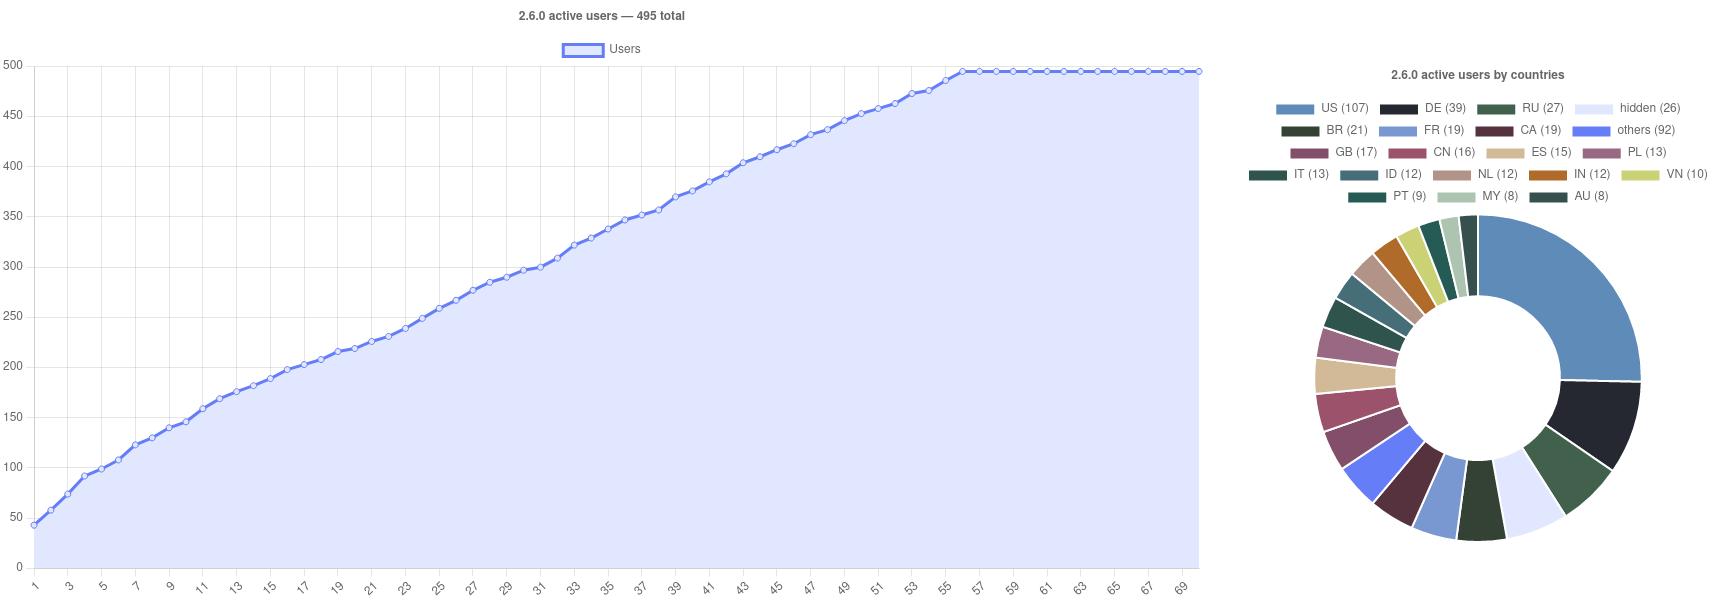
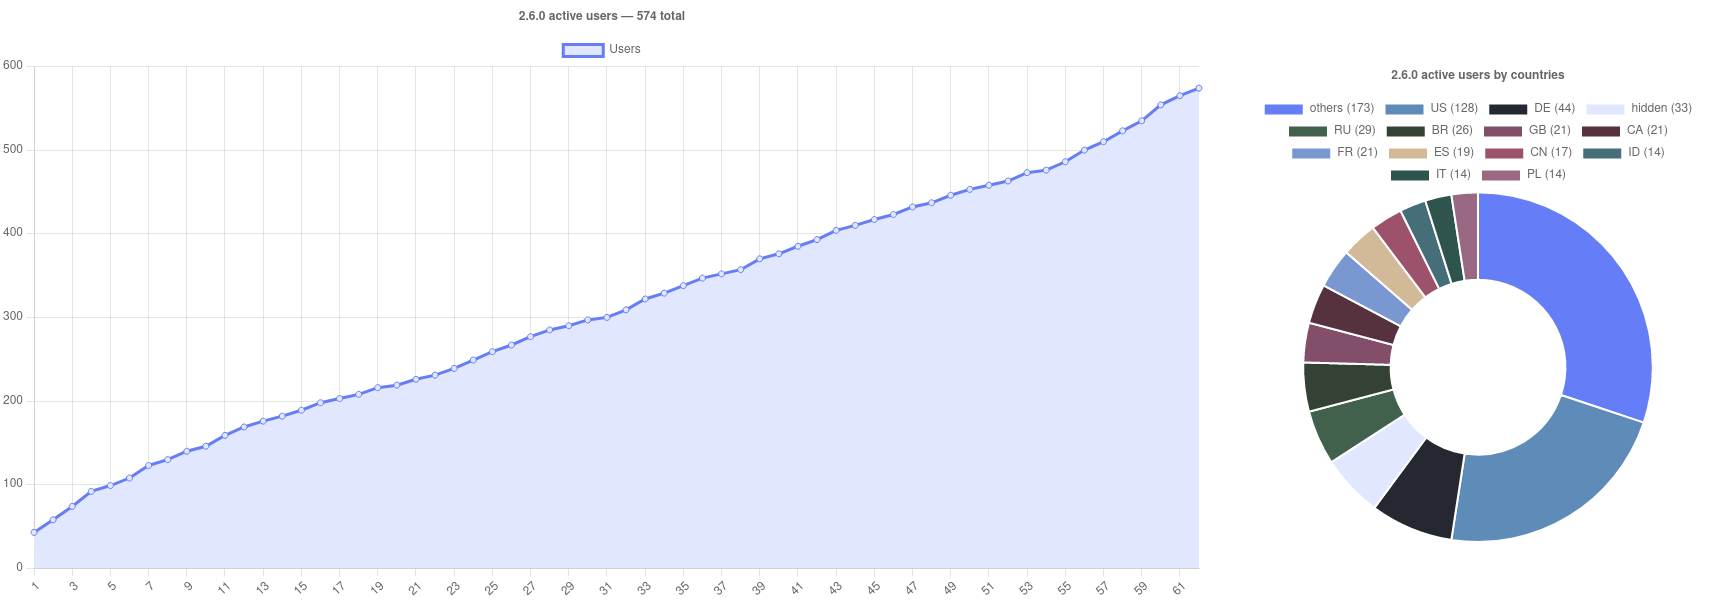
2.3.4 - added `Wine-GE-Proton 7-16`, made it default to install - hidden Wine-GE-Proton 7-8, 7-7, 7-6 and 7-2 as outdated - hidden GE-Proton 7-9, 7-8, 7-5 and 6-4 as outdated - hidden "apply patch" button from the settings if the patch currently is   in the preparation state - updated statistics
From previous commits:
- fixed voice packages versions identification

diff --git a/src/ts/launcher/states/InstallWine.ts b/src/ts/launcher/states/InstallWine.ts
@@ -5,9 +5,9 @@ import DXVK from '../../core/DXVK';
 
 export default (launcher: Launcher): Promise<void> => {
     return new Promise(async (resolve) => {
-        Runners.download('lutris-GE-Proton7-10-x86_64').then((stream) => {
+        Runners.download('lutris-GE-Proton7-16-x86_64').then((stream) => {
             launcher.progressBar?.init({
-                label: 'Downloading Wine-GE-Proton 7-10...',
+                label: 'Downloading Wine-GE-Proton 7-16...',
                 showSpeed: true,
                 showEta: true,
                 showPercents: true,
@@ -22,7 +22,7 @@ export default (launcher: Launcher): Promise<void> => {
 
             stream?.unpackStart(() => {
                 launcher.progressBar?.init({
-                    label: 'Unpacking Wine-GE-Proton 7-10...',
+                    label: 'Unpacking Wine-GE-Proton 7-16...',
                     showSpeed: true,
                     showEta: true,
                     showPercents: true,
@@ -36,7 +36,7 @@ export default (launcher: Launcher): Promise<void> => {
 
             stream?.unpackFinish(async () => {
                 // Select this runner
-                await Runners.current('lutris-GE-Proton7-10-x86_64');
+                await Runners.current('lutris-GE-Proton7-16-x86_64');
 
                 // Create prefix if it is not created
                 import('./CreatePrefix').then((module) => {

diff --git a/src/ts/core/Runners.ts b/src/ts/core/Runners.ts
@@ -11,6 +11,10 @@ import { DebugThread } from '@empathize/framework/dist/meta/Debug';
 import constants from '../Constants';
 import AbstractInstaller from './AbstractInstaller';
 
+// If true, runners list will be loaded directly from the file
+// instead of the repository. Should always be false for release builds
+const LOAD_DIRECTLY = false;
+
 declare const Neutralino;
 
 class Stream extends AbstractInstaller
@@ -72,7 +76,7 @@ class Runners
                 const runners_list = await Cache.get('Runners.list.remote');
 
                 // If the runners cache is no expired - return it
-                if (runners_list && !runners_list.expired)
+                if (!LOAD_DIRECTLY && runners_list && !runners_list.expired)
                     list = runners_list.value['list'];
 
                 else
@@ -81,7 +85,7 @@ class Runners
                     const response = await fetch(constants.uri.runners_list, 2000);
 
                     // If it wasn't fetched - load locally stored one
-                    if (!response.ok)
+                    if (!response.ok || LOAD_DIRECTLY)
                         list = YAML.parse(await Neutralino.filesystem.readFile(`${constants.paths.appDir}/public/runners.yaml`));
 
                     else

diff --git a/src/settings.svelte b/src/settings.svelte
@@ -372,7 +372,7 @@
                                         }
                                     }}
                                 />
-                            {:else}
+                            {:else if patchInfo.state != 'preparation'}
                                 <!-- svelte-ignore missing-declaration -->
                                 <Button
                                     lang="settings.general.items.patch.items.buttons.apply_patch"

diff --git a/repository/pages/STATISTICS.md b/repository/pages/STATISTICS.md
@@ -6,31 +6,57 @@ Our current statistics you can find in [readme](../../README.md)
 
 > You can suggest colors for your countries
 
+## 2.7.0
+
+Start date: May 31, 2022
+
+| Period | Data |
+| - | - |
+| 17 May — 31 May | <img src="../pics/stats/2022/may17-may31.png" height="400px"> |
+
+### Launcher analytics (by users choice)
+
+<img src="../pics/stats/2.7.0.png">
+
+<br>
+
 ## 2.6.0
 
-| Period | Source | Data |
-| - | - | - |
-| 6 Apr — 20 Apr | Discord server | <img src="../pics/stats/2022/apr6-apr20.png" height="400px"> |
-| 20 Apr — 2 May | Discord server | <img src="../pics/stats/2022/apr20-may2.png" height="400px"> |
-| 10 May — 22 May | Discord server | <img src="../pics/stats/2022/may10-may22.png" height="400px"> |
+| Period | Data |
+| - | - |
+| 6 Apr — 20 Apr | <img src="../pics/stats/2022/apr6-apr20.png" height="400px"> |
+| 20 Apr — 2 May | <img src="../pics/stats/2022/apr20-may2.png" height="400px"> |
+| 10 May — 22 May | <img src="../pics/stats/2022/may10-may22.png" height="400px"> |
+
+### Launcher analytics (by users choice)
+
+<img src="../pics/stats/2.6.0.png">
+
+<br>
 
 ## 2.5.0
 
-| Period | Source | Data |
-| - | - | - |
-| 24 Feb — 8 Mar | Discord server | <img src="../pics/stats/2022/feb24-mar8.png" height="400px"> |
-| 16 Mar — Mar 30 | Discord server | <img src="../pics/stats/2022/mar16-mar30.png" height="400px"> |
+| Period | Data |
+| - | - |
+| 24 Feb — 8 Mar | <img src="../pics/stats/2022/feb24-mar8.png" height="400px"> |
+| 16 Mar — Mar 30 | <img src="../pics/stats/2022/mar16-mar30.png" height="400px"> |
 
-### In-launcher analytics
-
-> Note that this statistics was gathered only from newcomers, so it actually means 154 new users of the launcher
+### Launcher analytics (by users choice)
 
 <img src="../pics/stats/2.5.0.png">
 
-## 2.3.0 — 99 total — in-launcher analytics
+<br>
+
+## In-launcher analytics (without discord included)
+
+> Note that this statistics was gathered only from newcomers, so it actually means 154 new users of the launcher
+
+<br>
+
+## 2.3.0 — 99 total
 
 <img src="../pics/stats/2.3.0.png">
 
-## 2.2.0 — 29 total — in-launcher analytics
+## 2.2.0 — 29 total
 
 <img src="../pics/stats/2.2.0.png">

diff --git a/README.md b/README.md
@@ -6,12 +6,6 @@
 
 <br><br>
 
-> Arts sources:
-> 
-> Ayaka: https://genshin-impact.fandom.com/wiki/Kamisato_Ayaka/Media?file=Icon_Emoji_Paimon%2527s_Paintings_Kamisato_Ayaka_1.png
-
-<br><br>
-
 # Please don't link to this repository
 
 We understand you want to help people run An Anime Game on Linux. The issue is, the more people know
@@ -75,7 +69,7 @@ field in your `config.yaml` file (settings -> launcher folder). If your system u
 
 | Game version | Launcher version | Patch version |
 | :---: | :---: | :---: |
-| 2.6.0 | 2.3.3 | 2.6.0 stable ✅ |
+| 2.7.0 | 2.3.4 | 2.7.0 unavailable ❌ |
 
 We have our own [An Anime Game](https://discord.gg/ck37X6UWBp) discord server where you can ask any questions
 
@@ -83,13 +77,13 @@ We have our own [An Anime Game](https://discord.gg/ck37X6UWBp) discord server wh
 
 This is our current usage statistics. You can find older ones [here](repository/pages/STATISTICS.md)
 
-### Our discord server — 742 members
+### Our discord server — 865 members
 
-<img src="repository/pics/stats/2022/may10-may22.png">
+<img src="repository/pics/stats/2022/may17-may31.png">
 
-### 2.6.0 launcher users — 495 total
+### 2.7.0 launcher users — 55 total
 
-<img src="repository/pics/stats/2.6.0.png">
+<img src="repository/pics/stats/2.7.0.png">
 
 <br>
 
